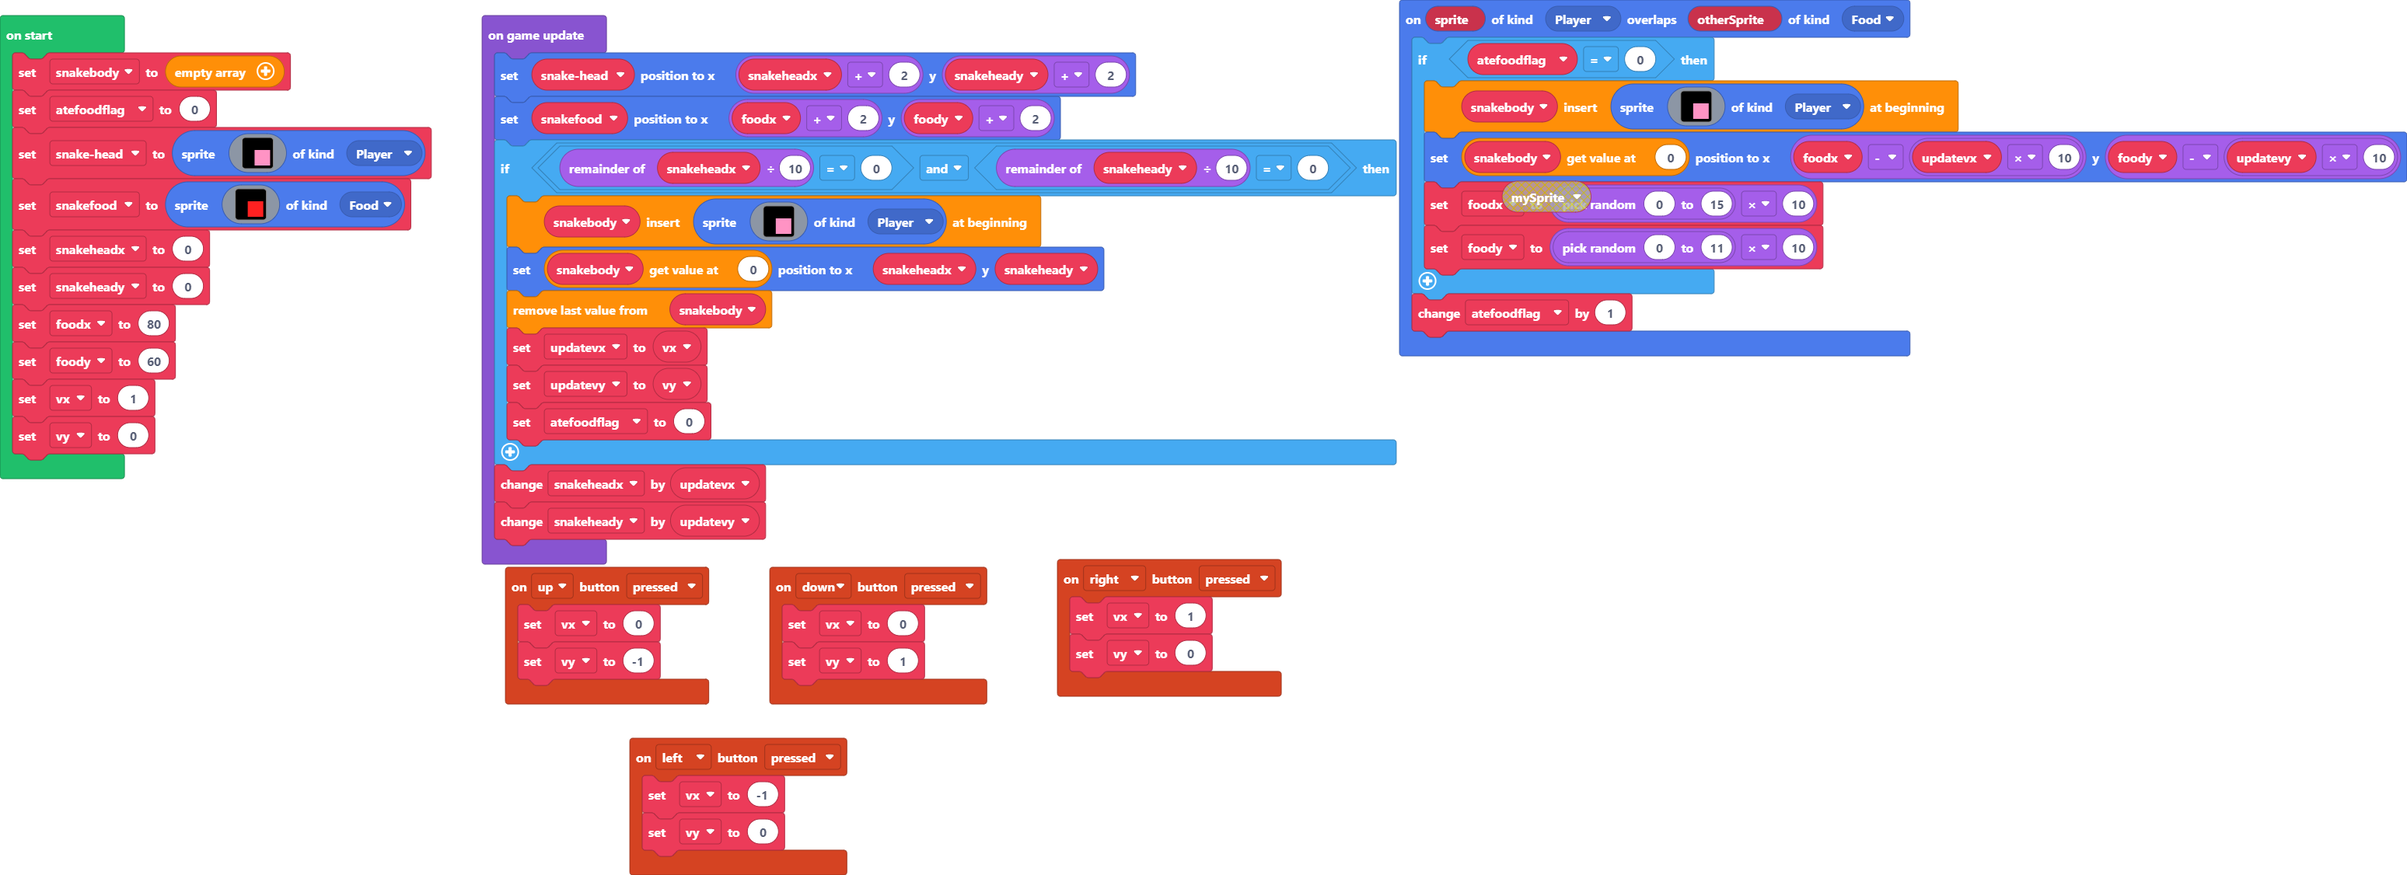
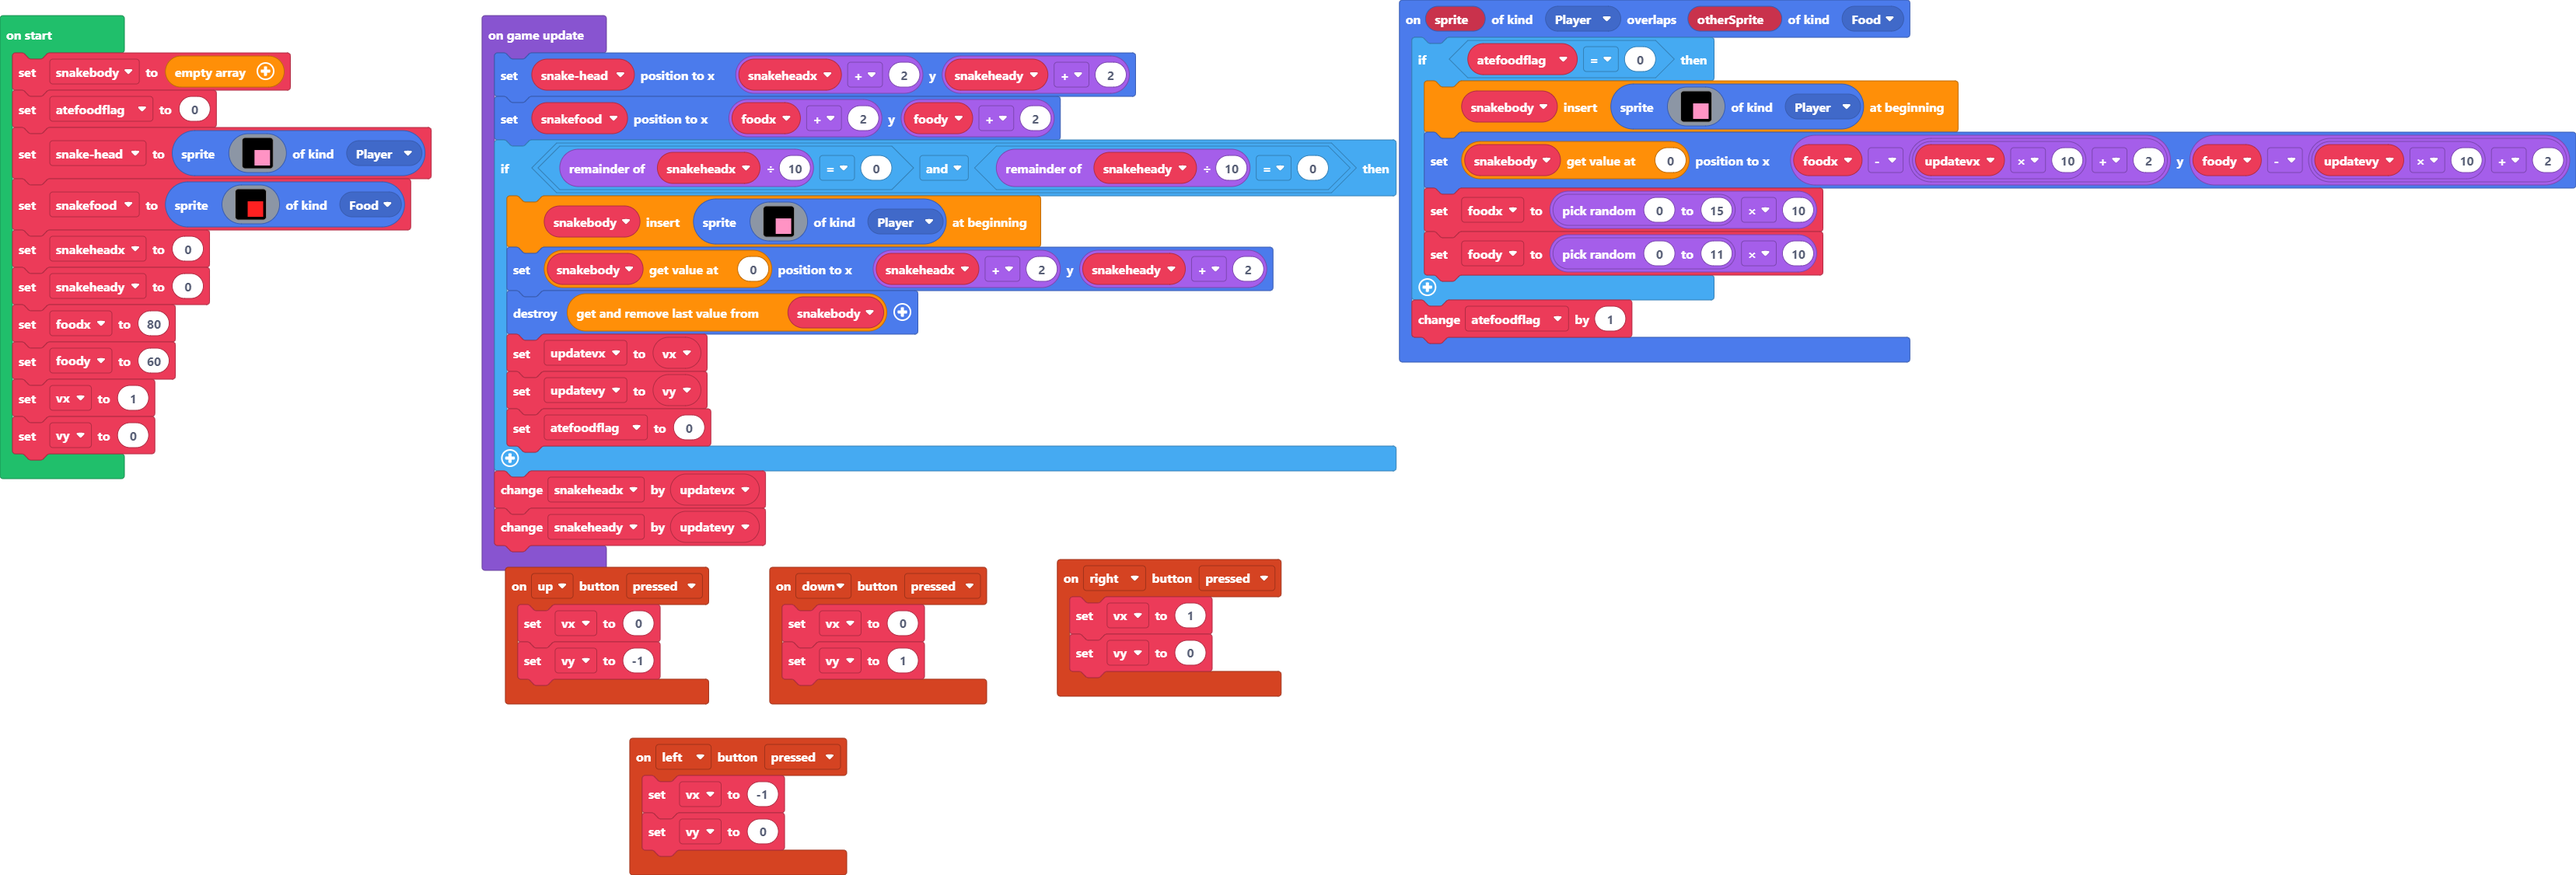
fixed snake body

Changed region(s): [[0.0, 0.0, 1.0, 0.8082], [0.2171, 0.8393, 0.3721, 1.0]]

diff --git a/main.ts b/main.ts
@@ -34,7 +34,7 @@ sprites.onOverlap(SpriteKind.Player, SpriteKind.Food, function (sprite, otherSpr
             . . . . . . 3 3 3 3 3 3 3 3 3 3 
             . . . . . . 3 3 3 3 3 3 3 3 3 3 
             `, SpriteKind.Player))
-        snakebody[0].setPosition(foodx - updatevx * 10, foody - updatevy * 10)
+        snakebody[0].setPosition(foodx - (updatevx * 10 + 2), foody - (updatevy * 10 + 2))
         foodx = randint(0, 15) * 10
         foody = randint(0, 11) * 10
     }
@@ -114,8 +114,8 @@ game.onUpdate(function () {
             . . . . . . 3 3 3 3 3 3 3 3 3 3 
             . . . . . . 3 3 3 3 3 3 3 3 3 3 
             `, SpriteKind.Player))
-        snakebody[0].setPosition(snakeheadx, snakeheady)
-        snakebody.pop()
+        snakebody[0].setPosition(snakeheadx + 2, snakeheady + 2)
+        snakebody.pop().destroy()
         updatevx = vx
         updatevy = vy
         atefoodflag = 0
